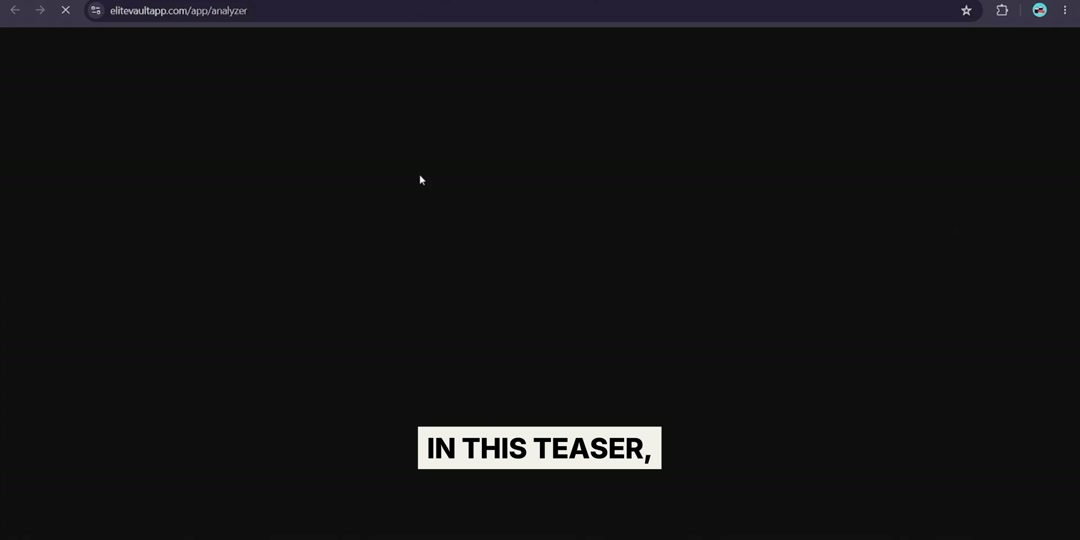
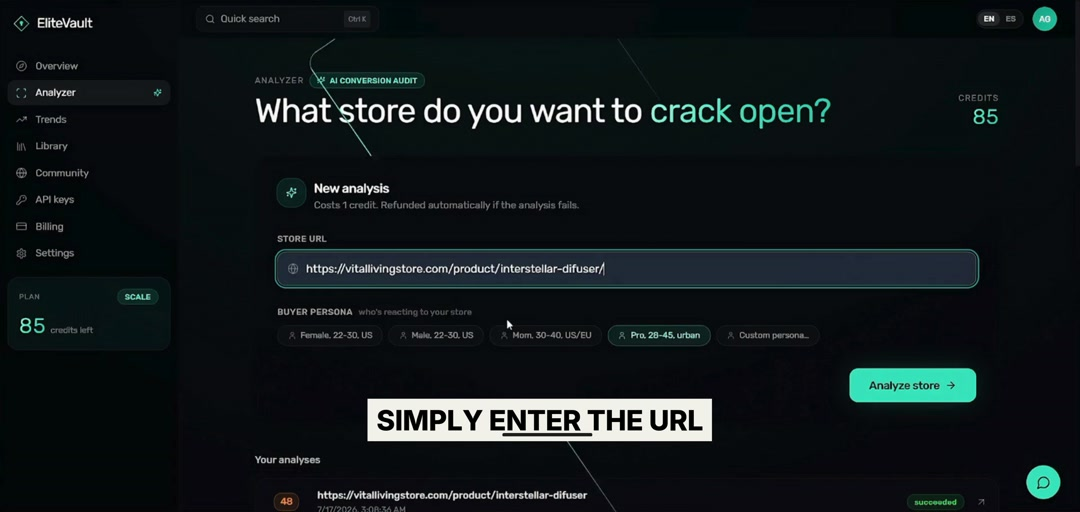
feat(landing): teaser v2 - crop URL bar, click-to-play with sound, title
- Re-encoded assets with the recording's Chrome URL bar cropped off
  (top 104px) since the component draws its own chrome bar; now
  1080x512. Audio kept: AAC 128k (mp4) / Opus 96k (webm). Poster now a
  real analyzer frame (t=5s) instead of the black intro card.
- No autoplay: poster + play button, click starts playback WITH sound
  (user gesture makes unmuted play reliable everywhere and inherently
  satisfies prefers-reduced-motion). Native controls while playing;
  resets to poster on end. Removed the IntersectionObserver autoplay
  machinery.
- "See how the analyzer works" title above the panel + "54 sec - sound
  on" chip under the play button (hero.teaserTitle/teaserDuration,
  EN + ES).

diff --git a/components/marketing/analyzer-teaser-video.tsx b/components/marketing/analyzer-teaser-video.tsx
@@ -1,22 +1,27 @@
 "use client";
 
-import { useEffect, useRef, useState } from "react";
+import { useRef, useState } from "react";
 import { Play } from "lucide-react";
 import { useT } from "@/components/i18n/locale-provider";
 
 /**
- * Real teaser video of the analyzer, shown in the landing's LIVE DEMO
- * section (replaced the old animated walkthrough mockup).
+ * Real teaser video of the analyzer, shown as the hero visual.
  *
  * Behavior:
- *   • Lazy: preload="none" until the panel nears the viewport, then an
- *     IntersectionObserver flips preload and starts playback — the video
- *     never competes with LCP.
- *   • Autoplays muted + looped, playsInline so iOS stays embedded.
- *   • prefers-reduced-motion: no autoplay — static poster with a manual
- *     play button instead.
- *   • Poster doubles as the fallback if the video can't load; the 2:1
- *     aspect ratio is reserved up front so there's no layout shift.
+ *   • Click-to-play WITH sound — no autoplay. The poster (a real frame of
+ *     the analyzer) + a play button carry the visual until the visitor
+ *     opts in, which also makes unmuted playback reliable in every
+ *     browser (user-gesture requirement) and inherently respects
+ *     prefers-reduced-motion.
+ *   • preload="metadata" only — a few KB up front; the stream starts on
+ *     click, so the video never competes with the page's LCP.
+ *   • Native controls appear once playing (pause / seek / volume); when
+ *     the teaser ends it resets back to the poster + play button.
+ *   • playsInline keeps iOS embedded; the 1080×512 aspect ratio is
+ *     reserved up front so there's no layout shift.
+ *
+ * The video file is pre-cropped: the screen recording's browser URL bar
+ * is cut off because this component draws its own chrome bar on top.
  */
 
 const VIDEO_WEBM = "/videos/analyzer-teaser.webm";
@@ -25,63 +30,33 @@ const POSTER = "/videos/analyzer-teaser-poster.jpg";
 
 export function AnalyzerTeaserVideo() {
   const { t } = useT();
-  const wrapRef = useRef<HTMLDivElement>(null);
   const videoRef = useRef<HTMLVideoElement>(null);
-  const [reducedMotion, setReducedMotion] = useState(false);
-  const [playing, setPlaying] = useState(false);
-  const [autoplayFailed, setAutoplayFailed] = useState(false);
+  const [started, setStarted] = useState(false);
 
-  useEffect(() => {
-    const mq = window.matchMedia("(prefers-reduced-motion: reduce)");
-    setReducedMotion(mq.matches);
-    const listener = (e: MediaQueryListEvent) => setReducedMotion(e.matches);
-    mq.addEventListener("change", listener);
-    return () => mq.removeEventListener("change", listener);
-  }, []);
-
-  useEffect(() => {
-    if (reducedMotion) {
-      videoRef.current?.pause();
-      return;
-    }
-    const el = wrapRef.current;
-    const video = videoRef.current;
-    if (!el || !video) return;
-    const io = new IntersectionObserver(
-      ([entry]) => {
-        if (entry.isIntersecting) {
-          video.preload = "auto";
-          video.muted = true;
-          video
-            .play()
-            .then(() => setAutoplayFailed(false))
-            .catch(() => setAutoplayFailed(true));
-        } else {
-          video.pause();
-        }
-      },
-      // Start fetching a bit before the panel scrolls into view so the
-      // first visible frame is already moving.
-      { rootMargin: "200px" },
-    );
-    io.observe(el);
-    return () => io.disconnect();
-  }, [reducedMotion]);
-
-  const manualPlay = () => {
+  const start = () => {
     const video = videoRef.current;
     if (!video) return;
-    video.preload = "auto";
-    video.muted = true;
     video.play().catch(() => {});
   };
 
-  const showPlayButton = !playing && (reducedMotion || autoplayFailed);
+  const reset = () => {
+    const video = videoRef.current;
+    setStarted(false);
+    if (video) video.currentTime = 0;
+  };
 
   return (
-    <div ref={wrapRef} className="relative">
+    <div className="relative">
+      {/* Teaser title — invitation above the panel */}
+      <div className="mb-5 flex items-center justify-center gap-2.5 text-[11px] font-mono uppercase tracking-widest text-white/45">
+        <span className="grid size-5 place-items-center rounded-full bg-signal-600/15 ring-1 ring-signal-500/25">
+          <Play className="size-2.5 translate-x-px text-signal-300" fill="currentColor" />
+        </span>
+        {t("hero.teaserTitle")}
+      </div>
+
       {/* Ambient glow — teal (signal) is the AI/data accent for this surface */}
-      <div className="absolute -inset-4 rounded-3xl bg-gradient-to-tr from-signal-600/20 via-transparent to-signal-400/15 blur-2xl pointer-events-none" />
+      <div className="absolute -inset-4 top-6 rounded-3xl bg-gradient-to-tr from-signal-600/20 via-transparent to-signal-400/15 blur-2xl pointer-events-none" />
 
       <div className="relative glass-strong rounded-2xl overflow-hidden shadow-2xl">
         {/* Browser chrome */}
@@ -94,27 +69,24 @@ export function AnalyzerTeaserVideo() {
           <div className="ml-3 flex-1 rounded-md bg-white/[0.04] px-3 py-1 text-xs text-white/40 font-mono">
             elitevaultapp.com/app/analyzer
           </div>
-          {!reducedMotion && (
-            <div className="flex items-center gap-1.5 text-[10px] text-white/30 uppercase tracking-widest">
-              <span className="size-1.5 rounded-full bg-success animate-pulse" />
-              Live demo
-            </div>
-          )}
+          <div className="flex items-center gap-1.5 text-[10px] text-white/30 uppercase tracking-widest">
+            <span className="size-1.5 rounded-full bg-success animate-pulse motion-reduce:animate-none" />
+            Live demo
+          </div>
         </div>
 
-        {/* aspect-[2/1] matches the encoded video (1080×540) exactly */}
-        <div className="relative aspect-[2/1] bg-obsidian-900">
+        {/* aspect matches the encoded video (1080×512) exactly */}
+        <div className="relative aspect-[1080/512] bg-obsidian-900">
           <video
             ref={videoRef}
             className="absolute inset-0 h-full w-full"
-            muted
-            loop
+            controls={started}
             playsInline
-            preload="none"
+            preload="metadata"
             poster={POSTER}
             aria-label={t("analyzerDemo.videoAria")}
-            onPlay={() => setPlaying(true)}
-            onPause={() => setPlaying(false)}
+            onPlay={() => setStarted(true)}
+            onEnded={reset}
           >
             <source src={VIDEO_WEBM} type="video/webm" />
             <source src={VIDEO_MP4} type="video/mp4" />
@@ -122,15 +94,20 @@ export function AnalyzerTeaserVideo() {
             <img src={POSTER} alt={t("analyzerDemo.videoAria")} />
           </video>
 
-          {showPlayButton && (
+          {!started && (
             <button
               type="button"
-              onClick={manualPlay}
+              onClick={start}
               aria-label={t("analyzerDemo.videoPlay")}
-              className="absolute inset-0 grid place-items-center bg-obsidian-950/25 transition-colors hover:bg-obsidian-950/10"
+              className="group absolute inset-0 grid place-items-center bg-obsidian-950/30 transition-colors hover:bg-obsidian-950/15"
             >
-              <span className="flex size-14 items-center justify-center rounded-full bg-obsidian-950/70 ring-1 ring-white/20 backdrop-blur-sm">
-                <Play className="size-5 translate-x-0.5 text-white" fill="currentColor" />
+              <span className="flex flex-col items-center gap-3">
+                <span className="flex size-16 items-center justify-center rounded-full bg-obsidian-950/70 ring-1 ring-white/20 backdrop-blur-sm transition-transform group-hover:scale-105">
+                  <Play className="size-6 translate-x-0.5 text-white" fill="currentColor" />
+                </span>
+                <span className="rounded-full bg-obsidian-950/60 px-3 py-1 text-[11px] text-white/70 backdrop-blur-sm">
+                  {t("hero.teaserDuration")}
+                </span>
               </span>
             </button>
           )}

diff --git a/lib/i18n/messages.ts b/lib/i18n/messages.ts
@@ -36,6 +36,8 @@ const en: Dict = {
     trust: "No credit card · 1 free analysis · Cancel anytime.",
     stripeBadge: "Payments secured by Stripe",
     sslBadge: "256-bit SSL",
+    teaserTitle: "See how the analyzer works",
+    teaserDuration: "54 sec · sound on",
   },
   twoPaths: {
     pill1: "TWO WAYS TO WIN",
@@ -426,6 +428,8 @@ const es: Dict = {
     trust: "Sin tarjeta · 1 análisis gratis · Cancela cuando quieras.",
     stripeBadge: "Pagos protegidos con Stripe",
     sslBadge: "SSL de 256 bits",
+    teaserTitle: "Mira cómo funciona el analizador",
+    teaserDuration: "54 s · con sonido",
   },
   twoPaths: {
     pill1: "DOS FORMAS DE GANAR",